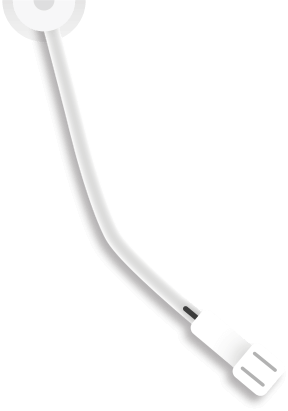
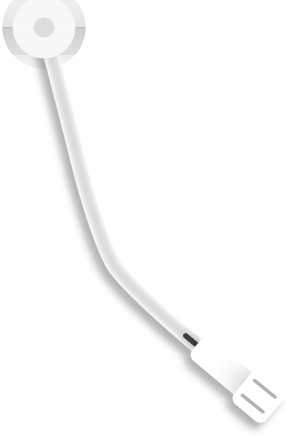
update

Changed region(s): [[0.0, 0.0, 0.951, 0.9927], [0.951, 0.9051, 0.979, 0.9343], [0.3357, 0.4672, 0.3636, 0.4964]]

diff --git a/src/js/createDisk.js b/src/js/createDisk.js
@@ -7,6 +7,7 @@
 import audioContext from './audioContext.js';
 import Source from './createSource.js';
 import Oscillator from './createOscillator.js';
+import soundList from './soundList.js';
 
 // 音量最小
 const VOLUMNMIN = 0;
@@ -29,6 +30,7 @@ function Disk(obj) {
 	this.volumn = 1;
 	this.frequency = 5000;
 	this.loop = obj.loop;
+	this.soundName = obj.soundName;
 	this.sound = new Source({
 		soundName: obj.soundName,
 		loop: obj.loop || true
@@ -37,7 +39,7 @@ function Disk(obj) {
 		type: 'square',
 		frequency: 1000
 	})
-	this.index = diskCount++;
+	this.index = ++diskCount;
 	this.init();
 	this.bindEvent();
 }
@@ -60,19 +62,19 @@ Disk.prototype.init = function() {
 	this.diskEl = document.querySelector('.song-disk.disk-' + this.index);
 	// 创建针
 	let needleEl = document.createElement('div');
-	needleEl.className = 'song-needle';
+	needleEl.className = 'song-needle needle-' + this.index;
 	containerEl.append(needleEl);
 	// 创建封面
 	let coverEl = document.createElement('div');
-	coverEl.className = 'song-cover';
+	coverEl.className = 'song-cover cover-' + this.index;
 	let coverImg = document.createElement('img');
-	coverImg.src = "http://p1.music.126.net/5KE-Os38if8v9_d_qSf90w==/19183179369981589.webp?imageView&thumbnail=720x0&quality=75&tostatic=0&type=webp";
+	coverImg.src = soundList[this.soundName].cover;
 	coverEl.append(coverImg);
 	diskEl.append(coverEl);
 	// 创建播放停止按钮
-	let playEl = document.createElement('p');
-	playEl.innerHTML = `<input type="button" value="播放" id="play-${this.index}">`;
-	containerEl.append(playEl);
+	// let playEl = document.createElement('p');
+	// playEl.innerHTML = `<input type="button" value="播放" id="play-${this.index}">`;
+	// containerEl.append(playEl);
 	// 创建音量控制条
 	let volumnEl = document.createElement('p');
 	volumnEl.innerHTML = `音量：<input type="range" min="${VOLUMNMIN}" max="${VOLUMNMAX}" id="volumn-${this.index}">`;
@@ -88,13 +90,14 @@ Disk.prototype.init = function() {
  *
  */
 Disk.prototype.bindEvent = function() {
-	this.clickPlayHandle();
+	// this.clickPlayHandle();
 	this.controlVolumnHandle();
 	this.controlFrequencyHandle();
 	this.mousemoveDiskHandle();
 	this.mousedownDiskHandle();
 	this.mouseupDiskHandle();
 	this.mouseleaveDiskHandle();
+	this.needleClickHandle();
 	this.dragoverHandle();
 	this.dropHandle();
 }
@@ -103,43 +106,45 @@ Disk.prototype.bindEvent = function() {
  * 点击播放停止按钮
  *
  */
-Disk.prototype.clickPlayHandle = function() {
-	document.querySelector('#play-' + this.index).addEventListener('click', (event) => {
-		if (this.isStart) {
-			this.sound.stop();
-			event.target.value = '播放';
-			this.resetProgress();
-			this.resetVolumn();
-			this.resetFrequency();
+// Disk.prototype.clickPlayHandle = function() {
+// 	document.querySelector('#play-' + this.index).addEventListener('click', (event) => {
+// 		if (this.isStart) {
+// 			this.sound.stop();
+// 			event.target.value = '播放';
+// 			this.resetProgress();
+// 			this.resetVolumn();
+// 			this.resetFrequency();
 
-		} else {
-			this.sound.start();
-			event.target.value = '停止';
+// 		} else {
+// 			this.sound.start();
+// 			event.target.value = '停止';
 
-			this.duration = this.sound.bufferSource.buffer.duration;
-			this.duration > 1 && window.requestAnimationFrame(() => {
-				this.startProgress();
-			});
-		}
-		this.isStart = !this.isStart;
-		this.isRotating = !this.isRotating;
-	});
-}
+// 			this.duration = this.sound.bufferSource.buffer.duration;
+// 			this.duration > 1 && window.requestAnimationFrame(() => {
+// 				this.startProgress();
+// 			});
+// 		}
+// 		this.isStart = !this.isStart;
+// 		this.isRotating = !this.isRotating;
+// 	});
+// }
 
 /**
  * 播放音乐
  *
  */
 Disk.prototype.startSound = function() {
-	let playEl = document.querySelector('#play-' + this.index);
-	playEl.value = '停止';
-	this.sound.start();
-	this.duration = this.sound.bufferSource.buffer.duration;
-	this.duration > 1 && window.requestAnimationFrame(() => {
-		this.startProgress();
-	});
-	this.isStart = true;
-	this.isRotating = true;
+	let needleEl = document.querySelector('.song-needle.needle-' + this.index);
+	needleEl.setAttribute('data-status', 'on');
+	setTimeout(() => {
+		this.sound.start();
+		this.duration = this.sound.bufferSource.buffer.duration;
+		this.duration > 1 && window.requestAnimationFrame(() => {
+			this.startProgress();
+		});
+		this.isStart = true;
+		this.isRotating = true;
+	}, 500);
 }
 
 /**
@@ -147,8 +152,8 @@ Disk.prototype.startSound = function() {
  *
  */
 Disk.prototype.stopSound = function() {
-	let playEl = document.querySelector('#play-' + this.index);
-	playEl.value = '播放';
+	let needleEl = document.querySelector('.song-needle.needle-' + this.index);
+	needleEl.setAttribute('data-status', '');
 	this.sound.stop();
 	this.resetProgress();
 	this.resetVolumn();
@@ -237,6 +242,18 @@ Disk.prototype.resetFrequency = function() {
 }
 
 /**
+ * 设置封面
+ *
+ */
+Disk.prototype.setCover = function(soundName) {
+	let cover = soundList[soundName].cover;
+	if (soundName !== this.soundName && cover) {
+		this.soundName = soundName;
+		document.querySelector('.song-cover.cover-' + this.index + '>img').src = cover;
+	}
+}
+
+/**
  * 滑动磁碟
  *
  */
@@ -252,7 +269,7 @@ Disk.prototype.mousemoveDiskHandle = function() {
 }
 
 /**
- * 鼠标点击
+ * 鼠标点击磁碟
  *
  */
 Disk.prototype.mousedownDiskHandle = function() {
@@ -271,7 +288,7 @@ Disk.prototype.mousedownDiskHandle = function() {
 }
 
 /**
- * 鼠标松开
+ * 鼠标松开磁碟
  *
  */
 Disk.prototype.mouseupDiskHandle = function() {
@@ -292,7 +309,7 @@ Disk.prototype.mouseupDiskHandle = function() {
 }
 
 /**
- * 鼠标离开
+ * 鼠标离开磁碟
  *
  */
 Disk.prototype.mouseleaveDiskHandle = function() {
@@ -309,6 +326,17 @@ Disk.prototype.mouseleaveDiskHandle = function() {
 				this.startProgress();
 			});
 		}
+	});
+}
+
+/**
+ * 鼠标点击针
+ *
+ */
+Disk.prototype.needleClickHandle = function() {
+	let needleEl = document.querySelector('.song-needle.needle-' + this.index);
+	needleEl.addEventListener('click', (event) => {
+		this.isStart ? this.stopSound() : this.startSound();
 	});
 }
 
@@ -337,7 +365,8 @@ Disk.prototype.dropHandle = function() {
 						soundName: name,
 						loop: this.loop || true
 					});
-					this.startSound();
+					this.setCover(name);
+					// this.startSound();
 				});
 			}
 		}

diff --git a/src/sass/index.scss b/src/sass/index.scss
@@ -65,6 +65,7 @@ img {
     width: 1000px;
     background-color: #232121;
     border-radius: 20px;
+    overflow: hidden;
     &>div{
         
     }
@@ -74,7 +75,7 @@ img {
 	height: 444px;
 	transform-origin:center center;
     will-change: transform;
-    cursor: pointer;
+    cursor: -webkit-grab;
     // opacity: 0;
     &::before{
         content: " ";
@@ -116,13 +117,21 @@ img {
 }
 .song-needle{
     position: absolute;
-    top:0;
+    top:-14px;
     left:48%;
     z-index: 10;
-    width: 144px;
-    height: 206px;
+    width: 143px;
+    height: 218px;
+    cursor: pointer;
     background:transparent url(../image/needle.png) left top no-repeat;
     background-size: contain;
+    transform-origin: 15% 2.7%;
+    transform: rotate(-30deg);
+    transition: transform .5s ease-in-out;
+    &[data-status="on"]{
+        transform: rotate(0);
+        cursor: alias;
+    }
 }
 
 @keyframes diskRotate{

diff --git a/src/js/soundList.js b/src/js/soundList.js
@@ -6,7 +6,16 @@
  */
 
 export default {
-	drunk: '../sounds/drunk.mp3',
-	hihat: '../sounds/hihat.wav',
-	kick: '../sounds/kick.wav'
+	drunk: {
+		cover: 'http://p1.music.126.net/fftIuPrG25y-k73fHyUI0w==/2133052557923258.jpg?imageView&thumbnail=360x0&quality=75&tostatic=0',
+		link: '../sounds/drunk.mp3'
+	},
+	hihat: {
+		cover: 'http://p1.music.126.net/5KE-Os38if8v9_d_qSf90w==/19183179369981589.webp?imageView&thumbnail=720x0&quality=75&tostatic=0&type=webp',
+		link: '../sounds/hihat.wav'
+	},
+	kick: {
+		cover: 'http://p1.music.126.net/rOyWF-Fb3I5dGYyKiTxWtQ==/17801093253909041.jpg?imageView&thumbnail=360x0&quality=75&tostatic=0',
+		link: '../sounds/kick.wav'
+	}
 }

diff --git a/src/js/bufferList.js b/src/js/bufferList.js
@@ -25,7 +25,7 @@ function createBufferList() {
 	// 遍历存储音频文件地址
 	for (let key in soundList) {
 		bufferPromise = bufferPromise.then(() => {
-			return decodeAudioData(audioContext, soundList[key])
+			return decodeAudioData(audioContext, soundList[key].link)
 		}).then((buffer) => {
 			bufferList[key] = buffer;
 			return promise();

diff --git a/src/index.js b/src/index.js
@@ -15,7 +15,7 @@ let disk1 = new Disk({
 
 let disk2 = new Disk({
 	selector: '#song-wrap-2',
-	soundName: 'drunk',
+	soundName: 'hihat',
 	loop: false
 });
 
